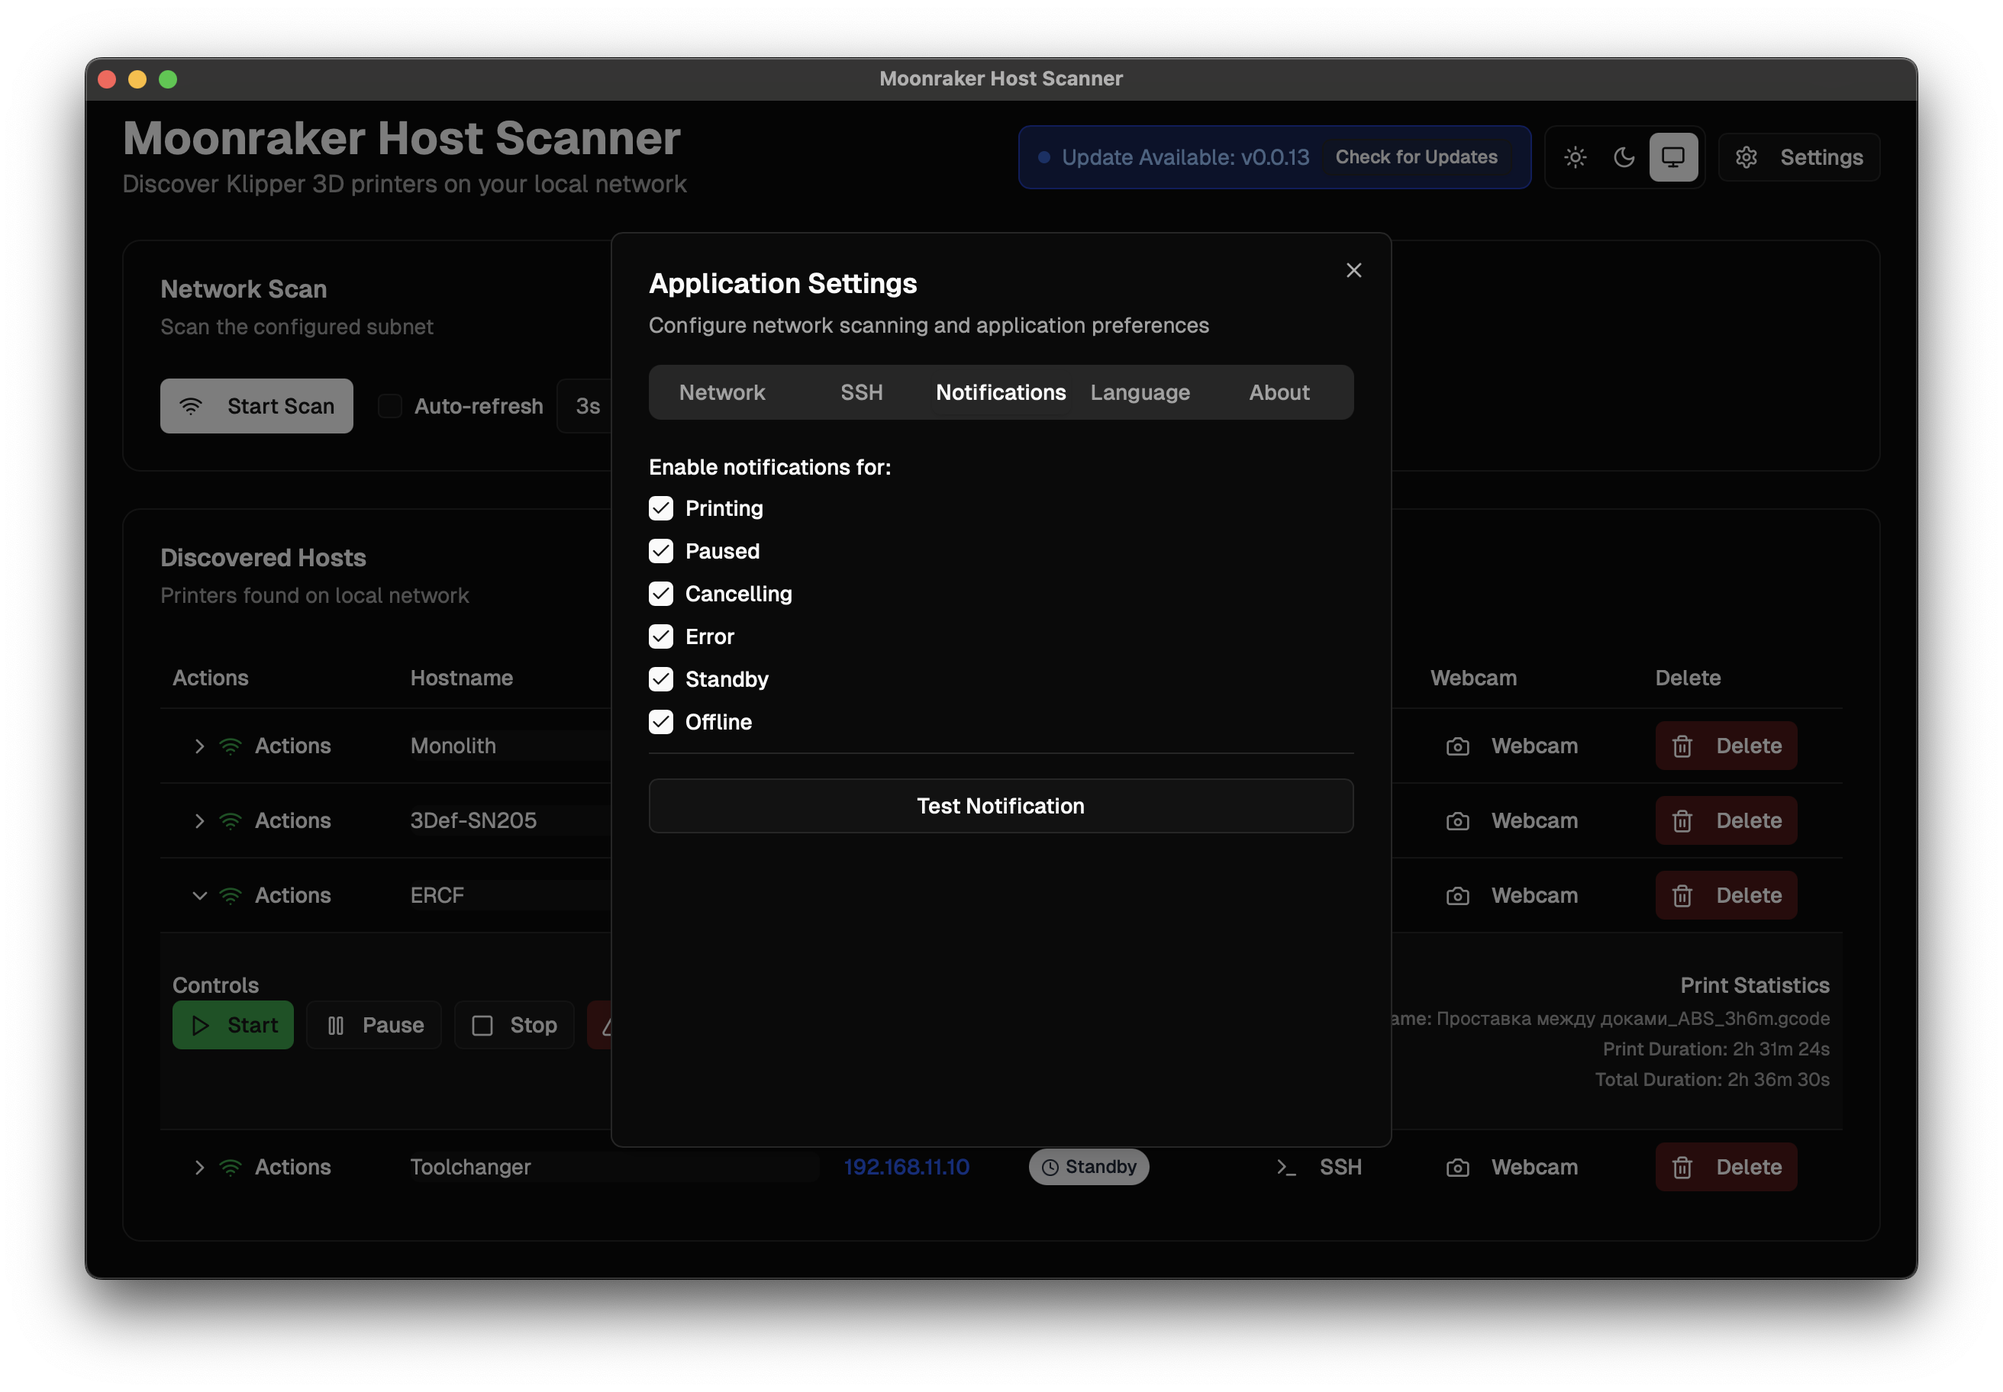
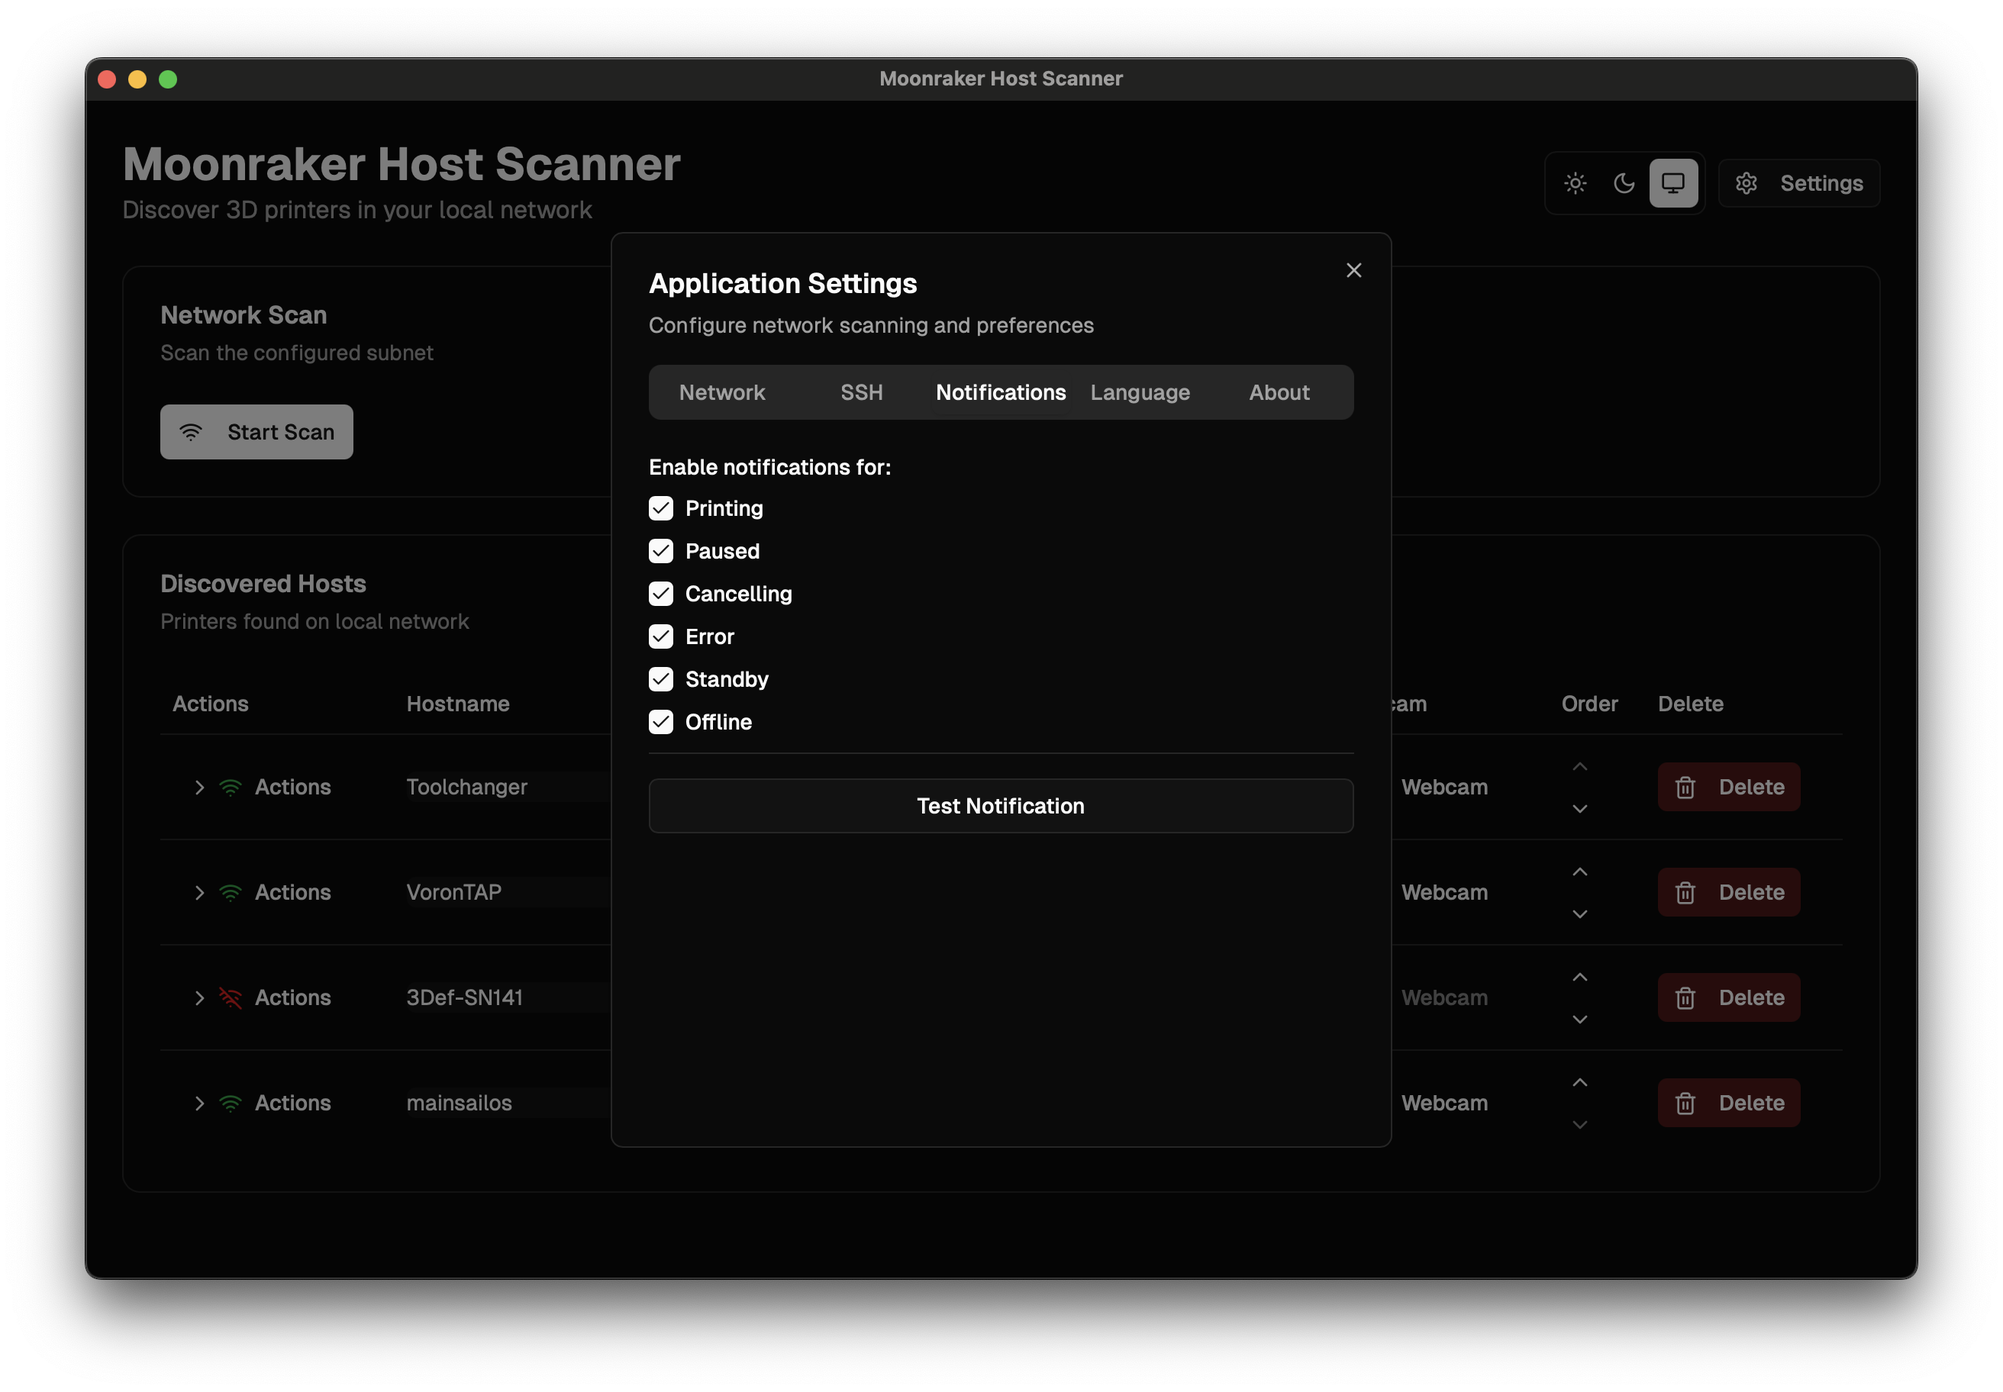
fix: При повторном сканировании известные хосты не удяляются.

diff --git a/README.ru.md b/README.ru.md
@@ -6,16 +6,21 @@
 
 - **Обнаружение сети** - Сканирование и обнаружение 3D-принтеров
 - **Мониторинг в реальном времени** - Обновления статуса с настраиваемыми интервалами
-- **Управление устройством** - Функции запуска, паузы, остановки и аварийной остановки
+- **Управление устройством** - Функции запуска, паузы, возобновления, остановки и аварийной остановки
 - **SSH интеграция** - Доступ к терминалу хостов
 - **Интеграция с браузером** - Доступ к веб-интерфейсам
 - **Поддержка веб-камеры** - Потоковая передача веб-камер с поворотом и отражением
 - **Уведомления** - Настраиваемые системные уведомления об изменениях статуса
+- **Фоновый режим** - Продолжение мониторинга и уведомлений при закрытом окне
+- **Системный трей** - Сворачивание в системный трей с полной функциональностью
 - **Многоязычность** - Поддержка английского, русского и немецкого языков
 - **Поддержка тем** - Светлые, темные и системные темы
 - **Автообновления** - Проверка обновлений и интеграция с GitHub
 - **Прогресс печати** - Мониторинг заданий печати и статистика
 - **Оптимизированное сканирование** - Быстрое сканирование сети с настраиваемой конкурентностью
+- **Сохранение хостов** - Известные хосты сохраняются при сканировании даже в оффлайн
+- **Пользовательские имена** - Редактирование и настройка отображаемых имен хостов
+- **Ручная сортировка** - Перетаскивание для изменения порядка хостов
 
 ## Скриншоты
 
@@ -96,23 +101,28 @@
 ### Управление устройством
 - **Запуск печати** из подготовленных файлов
 - **Пауза/возобновление** активных печатей
-- **Безопасная остановка** печати
+- **Отмена печати** безопасно
 - **Аварийная остановка** для критических ситуаций
 - **Мониторинг статуса** с обратной связью в реальном времени
+- **Кнопка возобновления** появляется когда принтер на паузе
 
 ### Системная интеграция
 - **SSH терминал** доступ с настраиваемым именем пользователя
 - **Интеграция с браузером** для веб-интерфейсов
 - **Потоковая передача веб-камеры** с обновлением и элементами управления
 - **Системные уведомления** об изменениях статуса
+- **Фоновый мониторинг** с интеграцией системного трея
 - **Проверка обновлений** с интеграцией GitHub
 
 ### Расширенные возможности
 - **Поддержка нескольких языков** (EN/RU/DE)
 - **Переключение тем** (Светлая/Темная/Системная)
-- **Автообновление** с настраиваемыми интервалами
-- **Управление именами хостов** с функцией сброса
+- **Ручное сканирование** - Без автообновления, только ручное сканирование сети
+- **Управление именами хостов** с пользовательскими именами
 - **Настройки уведомлений** для каждого типа статуса
+- **Фоновый режим** с настраиваемыми интервалами мониторинга
+- **Системный трей** с опциями показа/скрытия/выхода
+- **Сохранение хостов** - Оффлайн хосты остаются в списке
 
 ## Разработка
 
@@ -126,6 +136,8 @@
 - **Модульный Rust backend** с отдельными модулями для различной функциональности
 - **React frontend** с пользовательскими хуками для управления состоянием
 - **Tauri команды** для нативной системной интеграции
+- **Фоновый мониторинг** с интеграцией системного трея
+- **Кроссплатформенная совместимость** (Windows, macOS, Linux)
 - **Локальное хранилище** для настроек и персистентности хостов
 
 ### Команды разработки

diff --git a/readme/BUILD.md b/readme/BUILD.md
@@ -18,6 +18,8 @@
 - **Rust** - Высокопроизводительный системный язык
 - **Tokio** - Асинхронная среда выполнения
 - **Reqwest** - HTTP клиент
+- **System Tray** - Интеграция с системным треем
+- **Background Monitoring** - Фоновый мониторинг принтеров
 - **Modular architecture** - Разделение на модули для разных функций
 
 ## 🛠 Требования к системе
@@ -209,32 +211,70 @@ debug = true
 
 ## 📦 Сборка для разных платформ
 
-### macOS
+### macOS (ARM64 + x86_64)
 ```bash
-# Сборка для macOS
+# Сборка для macOS ARM64 (Apple Silicon)
+pnpm tauri:build --target aarch64-apple-darwin
+
+# Сборка для macOS x86_64 (Intel)
 pnpm tauri:build --target x86_64-apple-darwin
 
-# Создание DMG
+# Создание DMG для обеих архитектур
+pnpm tauri:build --target aarch64-apple-darwin --config tauri.conf.json
 pnpm tauri:build --target x86_64-apple-darwin --config tauri.conf.json
 ```
 
-### Windows
+### Windows (x86_64 + ARM64)
 ```bash
-# Сборка для Windows
+# Сборка для Windows x86_64
 pnpm tauri:build --target x86_64-pc-windows-msvc
 
-# Создание MSI
+# Сборка для Windows ARM64
+pnpm tauri:build --target aarch64-pc-windows-msvc
+
+# Создание MSI для обеих архитектур
 pnpm tauri:build --target x86_64-pc-windows-msvc --config tauri.conf.json
+pnpm tauri:build --target aarch64-pc-windows-msvc --config tauri.conf.json
 ```
 
-### Linux
+### Linux (x86_64)
 ```bash
-# Сборка для Linux
+# Сборка для Linux x86_64
 pnpm tauri:build --target x86_64-unknown-linux-gnu
 
 # Создание AppImage
 pnpm tauri:build --target x86_64-unknown-linux-gnu --config tauri.conf.json
 ```
+
+### Поддерживаемые платформы
+- **macOS**: ARM64 (Apple Silicon) + x86_64 (Intel)
+- **Windows**: x86_64 + ARM64
+- **Linux**: x86_64 (AppImage, .deb, .rpm)
+
+## 🆕 Новые функции в версии 0.0.46
+
+### Фоновый режим и системный трей
+- **Системный трей** - Приложение сворачивается в системный трей
+- **Фоновый мониторинг** - Продолжение работы в фоне при закрытом окне
+- **Уведомления в фоне** - Получение уведомлений даже при скрытом окне
+- **Управление окном** - Показать/скрыть/выйти через контекстное меню трея
+
+### Улучшения управления принтерами
+- **Кнопка Resume** - Автоматическое появление при паузе печати
+- **Исправлен статус "cancelling"** - Правильное отображение статуса отмены
+- **Приоритет статусов** - Cancelling имеет приоритет над error
+
+### Улучшения сканирования сети
+- **Сохранение хостов** - Известные хосты не исчезают при повторном сканировании
+- **Ручное сканирование** - Убрана автоматическая перезагрузка
+- **Пользовательские имена** - Возможность редактирования имен хостов
+- **Ручная сортировка** - Перетаскивание для изменения порядка хостов
+
+### Технические улучшения
+- **Tauri 2.0** - Обновление до последней версии
+- **System Tray API** - Нативная интеграция с системным треем
+- **Background Monitoring** - Асинхронный мониторинг в фоне
+- **Cross-platform** - Поддержка всех основных платформ
 
 ## 🔍 Отладка и диагностика
 

diff --git a/README.md b/README.md
@@ -6,16 +6,21 @@ Desktop application for discovering, monitoring, and controlling 3D printers on 
 
 - **Network Discovery** - Scan and discover 3D printer hosts
 - **Real-time Monitoring** - Status updates with configurable intervals
-- **Device Control** - Start, pause, stop, and emergency stop functions
+- **Device Control** - Start, pause, resume, stop, and emergency stop functions
 - **SSH Integration** - Terminal access to hosts
 - **Browser Integration** - Access to web interfaces
 - **Webcam Support** - Stream printer webcams with rotation and flip controls
 - **Notifications** - Configurable system notifications for status changes
+- **Background Mode** - Continue monitoring and notifications when window is closed
+- **System Tray** - Minimize to system tray with full functionality
 - **Multi-language** - English, Russian, and German support
 - **Theme Support** - Light, dark, and system themes
 - **Auto-updates** - Update checking and GitHub integration
 - **Print Progress** - Print job monitoring and statistics
 - **Optimized Scanning** - Fast network scanning with configurable concurrency
+- **Host Persistence** - Known hosts are preserved across scans even when offline
+- **Custom Hostnames** - Edit and customize host display names
+- **Manual Host Sorting** - Drag and drop to reorder hosts
 
 ## Screenshots
 
@@ -96,23 +101,28 @@ The application is not signed with an Apple Developer certificate. Remove from q
 ### Device Control
 - **Start printing** from prepared files
 - **Pause/resume** active prints
-- **Stop printing** safely
+- **Cancel printing** safely
 - **Emergency stop** for critical situations
 - **Status monitoring** with real-time feedback
+- **Resume button** appears when printer is paused
 
 ### System Integration
 - **SSH terminal** access with configurable username
 - **Web browser** integration for web interfaces
 - **Webcam streaming** with refresh and controls
 - **System notifications** for status changes
+- **Background monitoring** with system tray integration
 - **Update checking** with GitHub integration
 
 ### Advanced Features
 - **Multi-language support** (EN/RU/DE)
 - **Theme switching** (Light/Dark/System)
-- **Auto-refresh** with configurable intervals
-- **Hostname management** with reset functionality
+- **Manual scanning** - No auto-refresh, only manual network scans
+- **Hostname management** with custom naming
 - **Notification preferences** per status type
+- **Background mode** with configurable monitoring intervals
+- **System tray** with show/hide/quit options
+- **Host persistence** - Offline hosts remain in the list
 
 ## Development
 
@@ -126,6 +136,8 @@ The application is not signed with an Apple Developer certificate. Remove from q
 - **Modular Rust backend** with separate modules for different functionality
 - **React frontend** with custom hooks for state management
 - **Tauri commands** for native system integration
+- **Background monitoring** with system tray integration
+- **Cross-platform compatibility** (Windows, macOS, Linux)
 - **Local storage** for settings and host persistence
 
 ### Development Commands
